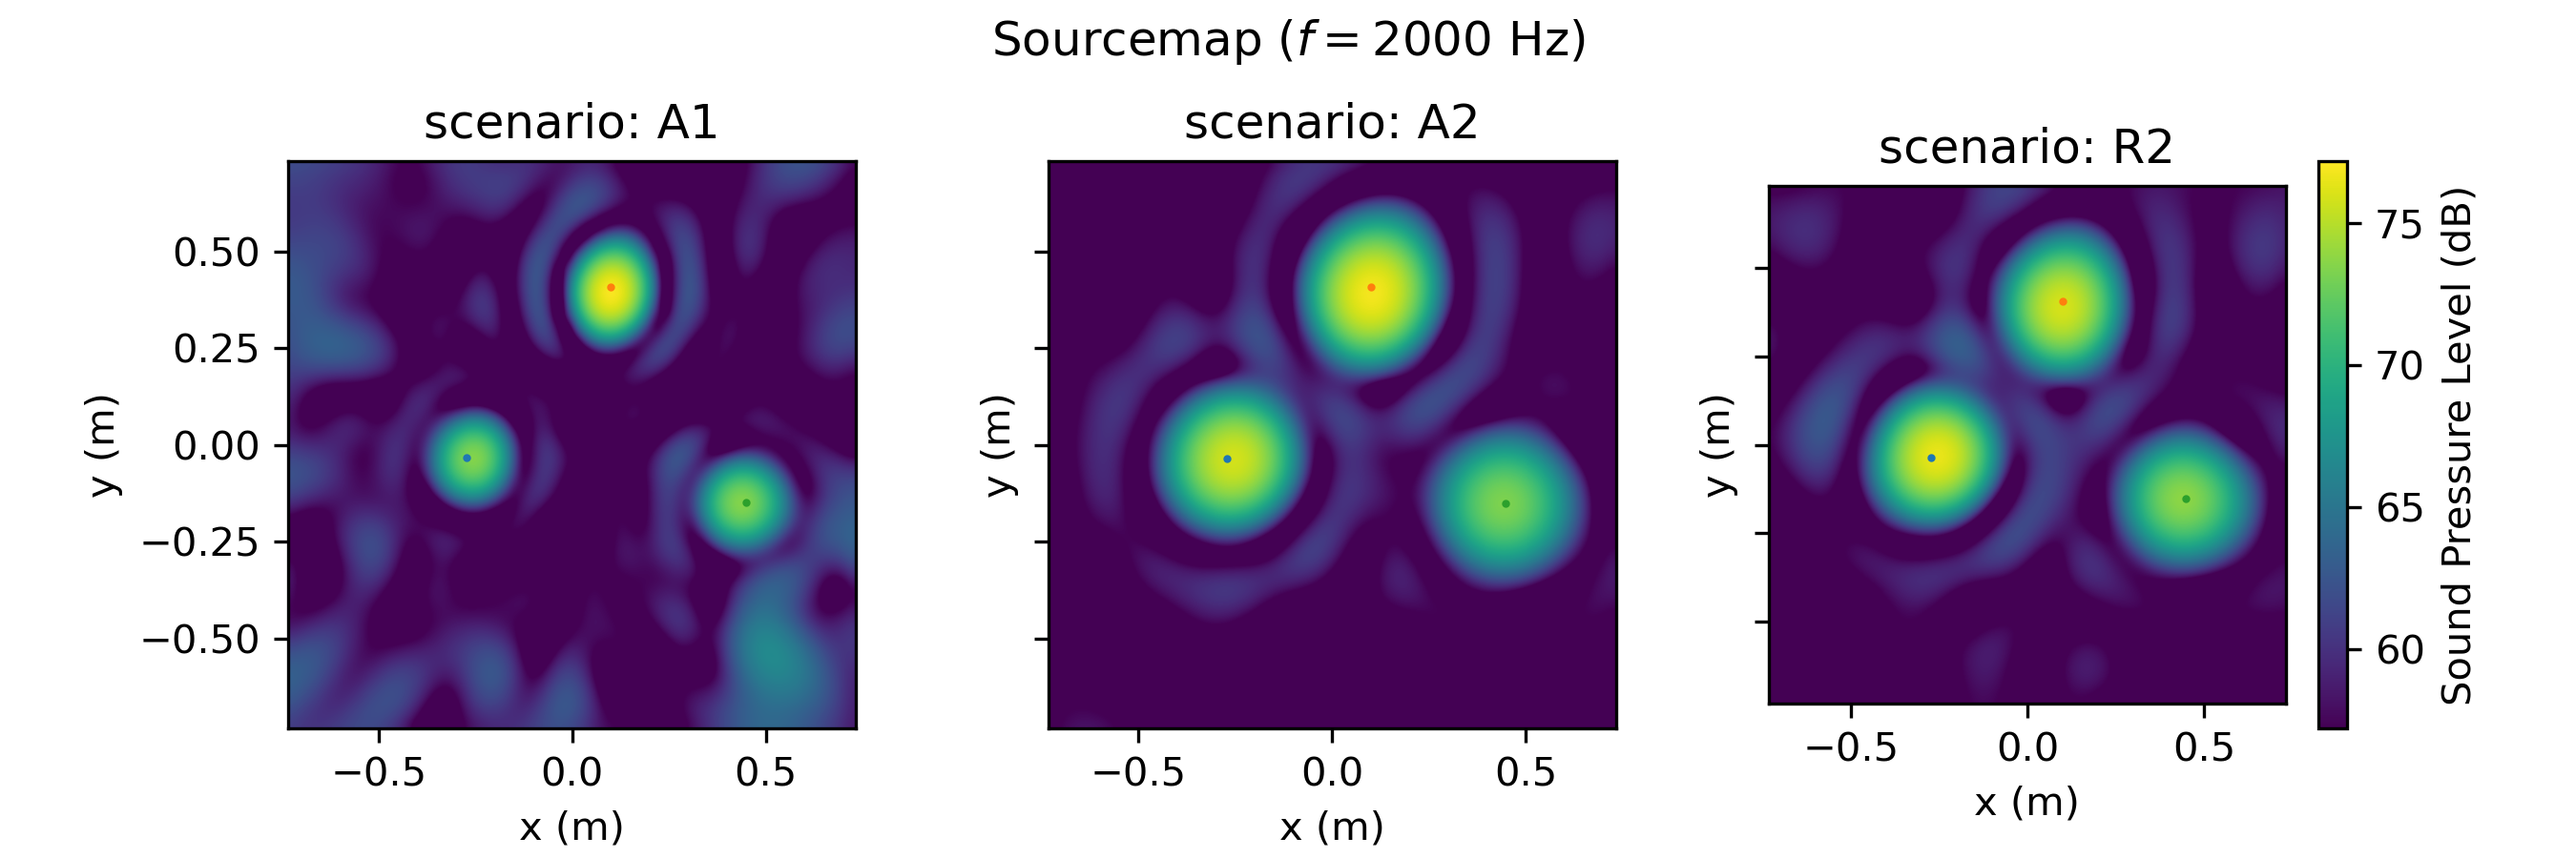
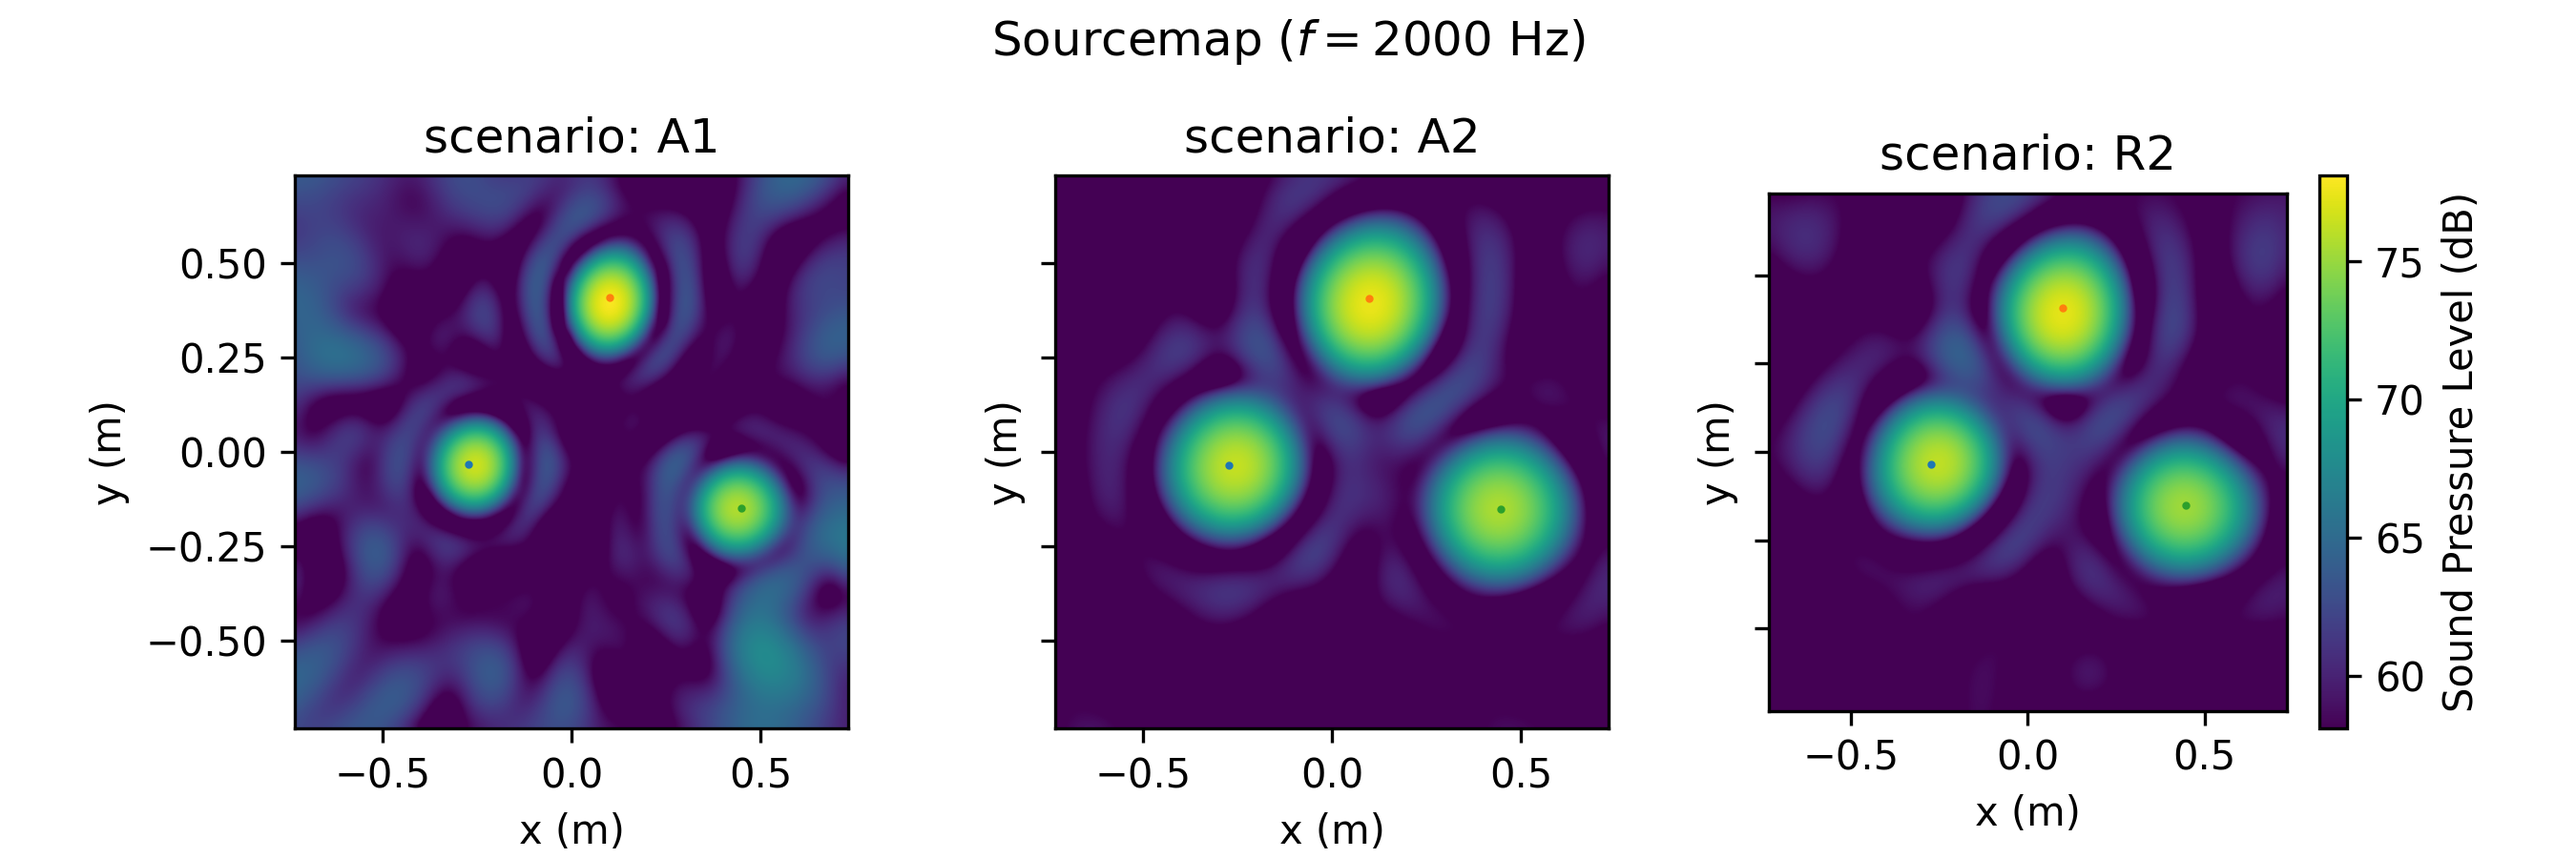
examples

diff --git a/docs/source/contents/script/experimental.py b/docs/source/contents/script/experimental.py
@@ -3,16 +3,16 @@ from pathlib import Path
 import acoular as ac
 import matplotlib.pyplot as plt
 
-from acoupipe.datasets.experimental import DatasetSRIRACHA
+from acoupipe.datasets.experimental import DatasetMIRACLE
 
 f = 2000
 
 fig, axs = plt.subplots(1, 3, figsize=(9, 3), sharey=True, sharex=True)
 fig.suptitle(f"Sourcemap ($f={f}$ Hz)", fontsize=12)
 
-for i, scenario in enumerate(["SRA2-D"]):
+for i, scenario in enumerate([ "A1", "A2", "R2"]):
 
-    dataset = DatasetSRIRACHA(scenario=scenario, mode="wishart")
+    dataset = DatasetMIRACLE(scenario=scenario, mode="wishart")
     data_generator = dataset.generate(
         features=["sourcemap", "loc", "f"],
         split="training",
